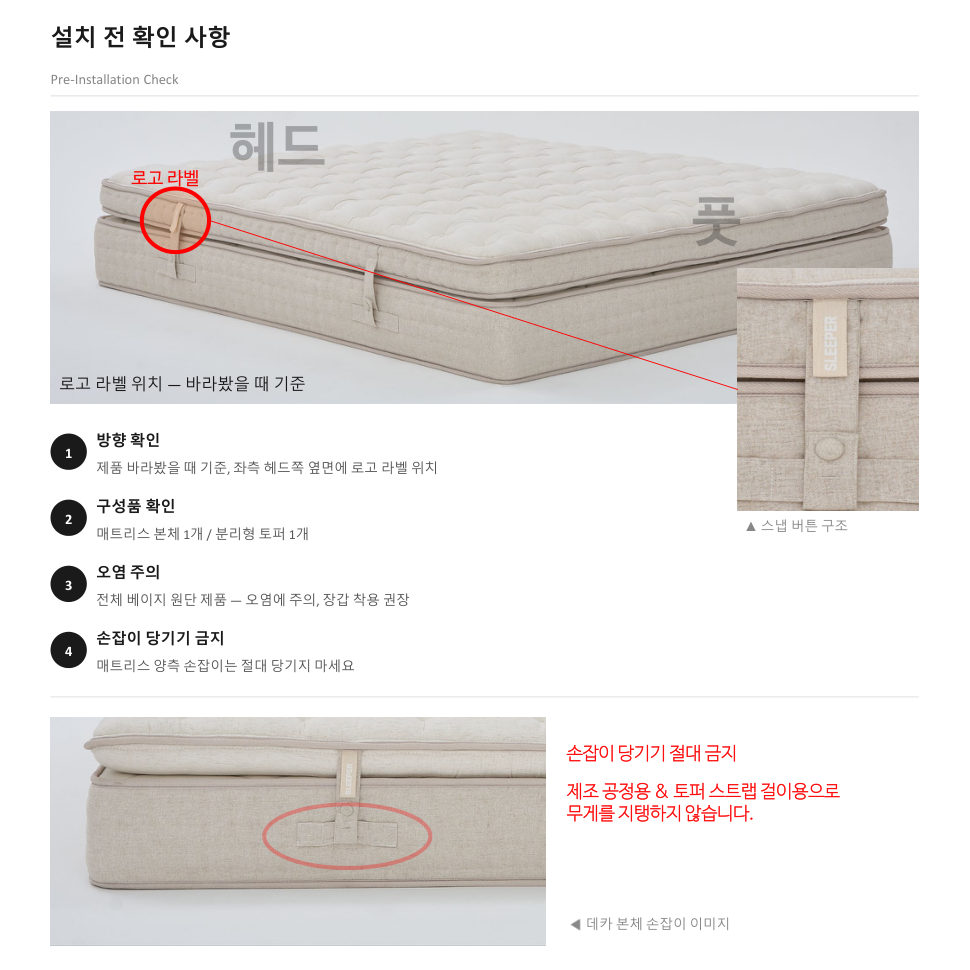
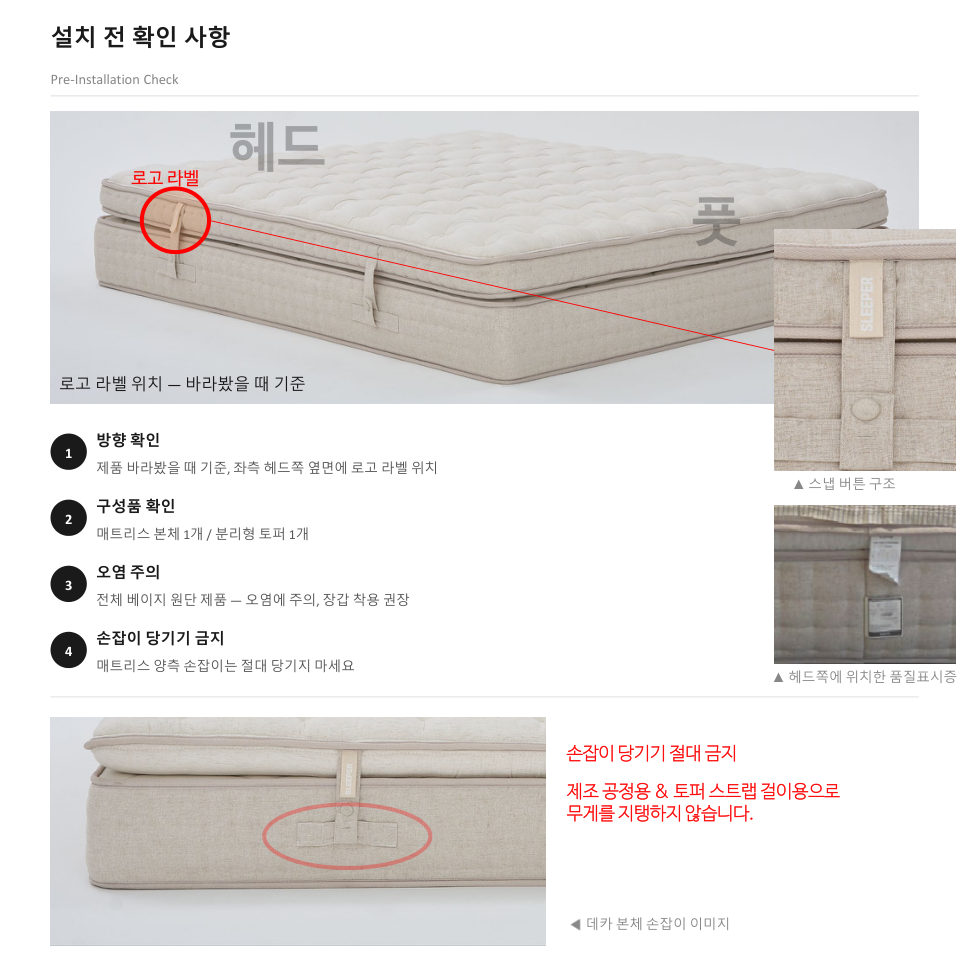
chore: DECA 매트리스 가이드 ver2 업데이트 [2026-09-14]
Drive에서 파일 교체 감지 (2026-09-14 업로드):
- 구: DECA 조립 설치 가이드.pdf (1e0oxUl...)
- 신: DECA_조립설치가이드_ver2.pdf (1amP9E8...)
- 페이지 수 동일 (7pp), 이미지 전체 재생성
- guides/deca-mattress.html PDF 링크 업데이트
- _inventory.json file_id, title, last_modified, note 갱신

Claude-Session: https://claude.ai/code/session_01VMxWXnexgH4TRgnr7kuYSr

diff --git a/guides/deca-mattress.html b/guides/deca-mattress.html
@@ -48,7 +48,7 @@
     </div>
     <div class="guide-actions">
       <a class="btn btn-primary"
-         href="https://drive.google.com/file/d/1e0oxUlYjnGxlhZEpUOP7wvgl7666GX14/view"
+         href="https://drive.google.com/file/d/1amP9E8fhgME8hhIGg7-gT3WMjgSOEIsI/view"
          target="_blank">📄 원본 PDF (Ver.1, 2026-07)</a>
     </div>
   </div>
